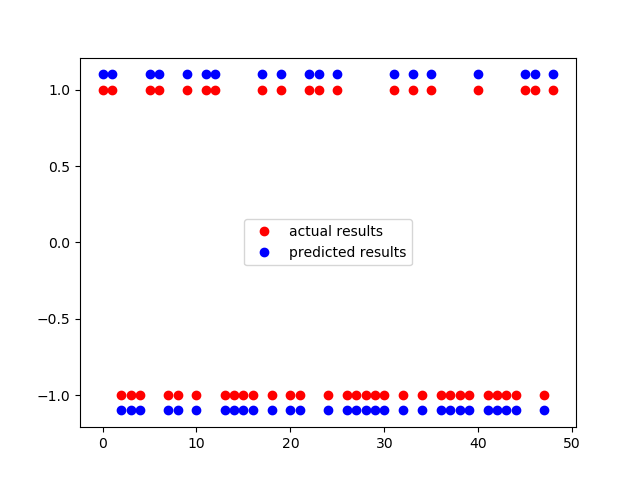
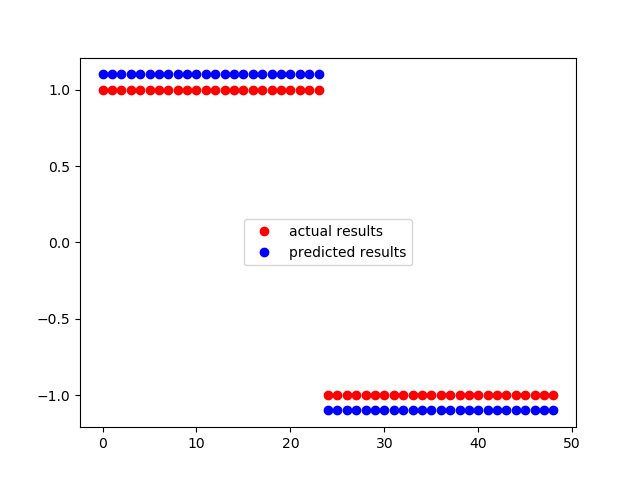
improvements

diff --git a/Perceptron/Manual Implementation/Perceptron.py b/Perceptron/Manual Implementation/Perceptron.py
@@ -3,6 +3,15 @@ import matplotlib.pyplot as plt
 import numpy as np
 import random
 
+
+def col_vector(array1, array2):
+    col_vector_list = []
+    for i in range(0, len(array1)):
+        col_vector_list.append((array1[i], array2[i]))
+
+    return col_vector_list
+
+
 #  import data and name columns
 data = pd.read_csv("iris.data", sep=',')
 data.columns = ['sepal length in cm', 'sepal width in cm', 'petal length in cm', 'petal width in cm',
@@ -27,7 +36,7 @@ data['Result'] = result_list
 #  creates array for Perceptron calculation
 sepal = np.array(data['sepal width in cm'])
 petal = np.array(data['petal width in cm'])
-features = list(zip(sepal, petal))[0:99]
+features = list(zip(sepal, petal))[0:100]
 w = np.array([0, 0])
 x = np.dot(features, w)
 results = []
@@ -35,26 +44,26 @@ count = 1
 
 #  tests and updates weight(w) until we have more than 50 consecutive predictions on learning data
 #  s variable guarantees even index for learning
-while count < 50:
+while count <= 49:
     x = np.dot(features, w)
-    s = 2 * random.randint(0, 48)
-    if (int(x[s]) >= 0 and int(result_list[s]) < 0) or (int(x[s]) < 0 and int(result_list[s]) >= 0):
-        w = w + result_list[s] * np.transpose(features[s])
-        count = 0
-    else:
-        count += 1
+    s = 2 * random.randint(0, 49)
+    for s in range(0, 49):
+        if (int(x[2 * s]) >= 0 and int(result_list[2 * s]) < 0) or (int(x[2 * s]) < 0 and int(result_list[2 * s]) >= 0):
+            w = w + result_list[2 * s] * np.transpose(features[2 * s])
+            count = 0
+        else:
+            count += 1
 
 #  validates weight (w) calculated above on the odd numbered indexes (validation data).
 #  s variable now guarantees odd index for validation
 x_validate = []
 x2_validate = []
 for i in range(0, 49):
-    s = (2 * random.randint(0, 48)) + 1
-    if np.dot(features[s], w) >= 0:
+    if np.dot(features[2 * i + 1], w) >= 0:
         x_validate.append(1.1)
     else:
         x_validate.append(-1.1)
-    x2_validate.append(result_list[s])
+    x2_validate.append(result_list[2 * i + 1])
 
 #  plots predicted data vs actual results
 plt.plot(x2_validate, 'o', color='red', label='actual results')
